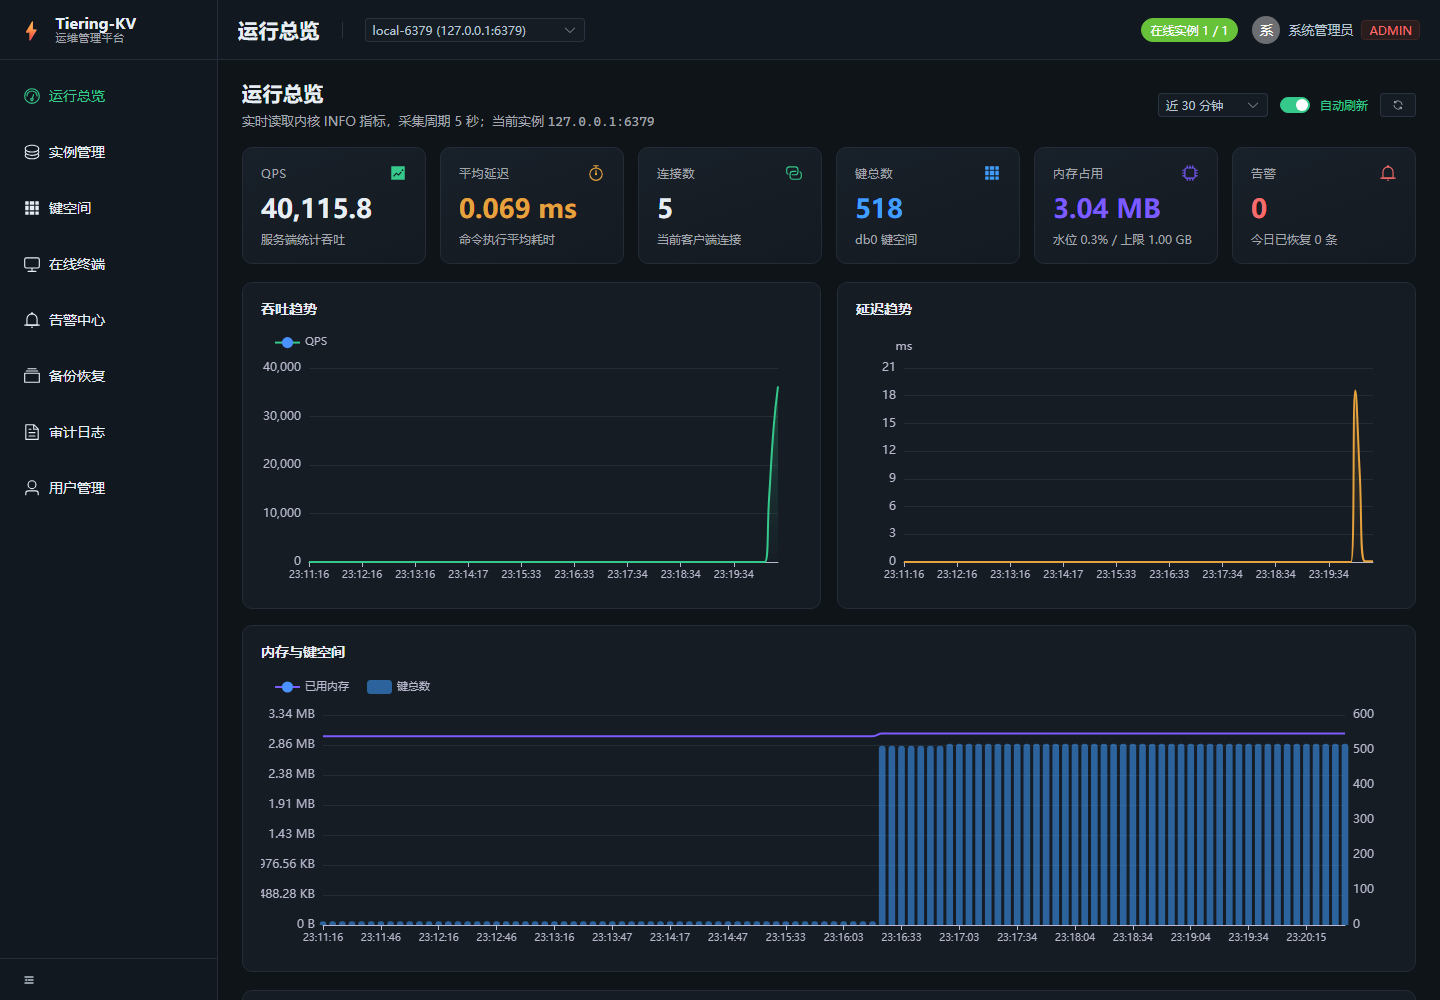
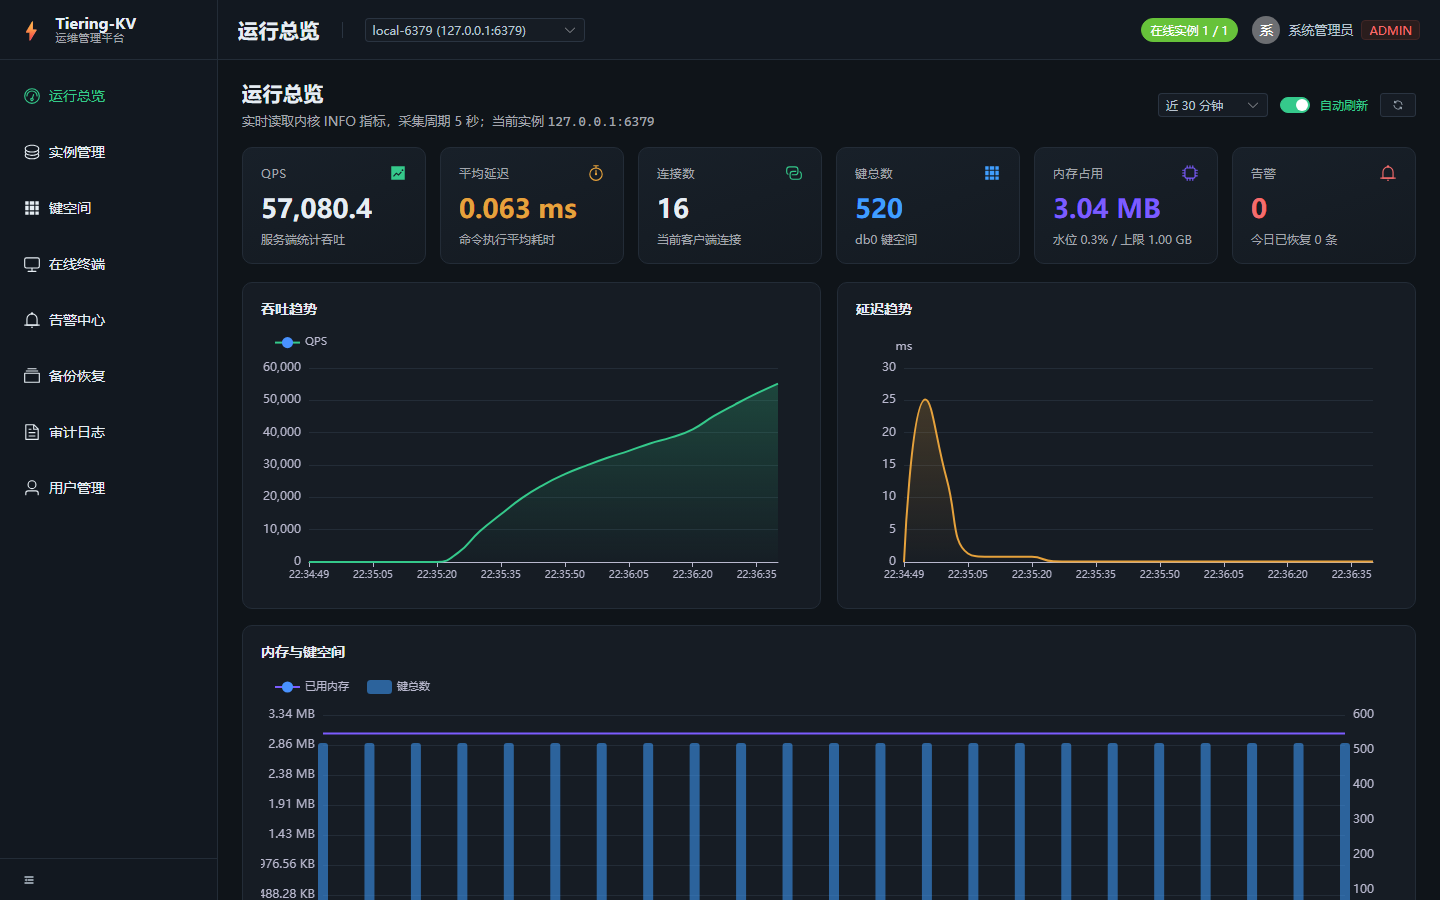
test(console): 测试报告与本地栈验证结果
- docs/testing/console-test-report.md：45 控制面用例 + 25 接口断言 +
  6 页界面冒烟 + 内核全量回归 + 接口延迟基线 + 10 条缺陷记录
- dev-up：控制面优先离线构建，失败回退镜像源
- vite：显式绑定 127.0.0.1，修复 Windows 下 localhost 仅解析 ::1
- 刷新本地截图（含负载曲线）

diff --git a/console-web/vite.config.ts b/console-web/vite.config.ts
@@ -11,6 +11,8 @@ export default defineConfig({
     }
   },
   server: {
+    // 显式绑定 IPv4，避免 Windows 上 localhost 只解析到 ::1 导致 127.0.0.1 拒绝连接
+    host: '127.0.0.1',
     port: 5173,
     // 避免 watcher 监视截图/脚本目录导致 Windows 下 EBUSY 崩溃
     watch: {

diff --git a/docs/testing/console-test-report.md b/docs/testing/console-test-report.md
@@ -1,0 +1,112 @@
+# Web 运维管理平台测试报告
+
+- 版本：console v1.0（分支 `feature/console-platform`）
+- 日期：2026-10-24
+- 环境：Windows 11 · JDK 21.0.12（Microsoft） · Maven 3.9.16 · Node 24.16 · MySQL 8.0.39 · Docker 29.8
+
+## 1. 测试策略
+
+| 层级 | 覆盖对象 | 工具 | 数量 |
+| --- | --- | --- | --- |
+| 单元测试 | RESP 编解码、INFO 解析、终端分词、指标映射、限流器 | JUnit 5 + AssertJ | 26 |
+| 接口测试 | 认证、鉴权、用户管理、告警求值 | Spring Boot Test + MockMvc（H2） | 19 |
+| 接口端到端 | 25 项业务断言，跑在真实内核 + MySQL 之上 | Node 脚本 | 25 |
+| 界面冒烟 | 登录 → 总览 → 键空间 → 终端 → 告警 → 实例 | Playwright (Chromium) | 6 页 |
+| 内核回归 | 全量单元/集成测试 | JUnit 5 + Surefire | 14,958 次执行 |
+| 性能 | 接口延迟基线、内核吞吐 | 自研脚本 | 3 组 |
+
+## 2. 执行结果
+
+### 2.1 控制面测试（`cd console-server && mvn test`）
+
+```
+Tests run: 45, Failures: 0, Errors: 0, Skipped: 0
+BUILD SUCCESS
+```
+
+| 用例类 | 数量 | 关注点 |
+| --- | --- | --- |
+| `RespCodecTest` | 10 | 命令编码、5 类应答、嵌套数组、nil、截断/非法前缀 |
+| `InfoParserTest` | 5 | section 解析、类型化取值、Keyspace 求和、空输入 |
+| `MetricMapperTest` | 3 | INFO → 指标模型、告警字典、内存水位 |
+| `TerminalTokenizerTest` | 5 | 引号/转义/空白折叠 |
+| `LoginAttemptGuardTest` | 4 | 5 次失败锁定、成功清零、大小写与空格、未知用户 |
+| `AuthApiTest` | 6 | 登录成功/失败、空参数、匿名 401、/me、VIEWER 越权 |
+| `UserAdminTest` | 4 | 创建、重名 409、口令长度、不能删除自己、口令不外泄 |
+| `LoginRateLimitTest` | 1 | 连续失败后 429 |
+| `AlertServiceTest` | 4 | 触发/恢复闭环、不重复触发、实例绑定、停用规则 |
+
+### 2.2 内核回归（`mvn -o -B '-Dsurefire.excludedGroups=benchmark' test`）
+
+```
+[WARNING] Tests run: 14958, Failures: 0, Errors: 0, Skipped: 13
+[INFO] BUILD SUCCESS
+Total time: 07:35 min
+```
+
+覆盖本轮对内核的两处改动：`INFO` 标准 section（ADR-0355）与
+`MetricsRegistry` 接线修复（TD-082），新增 8 个用例在其中。
+
+### 2.3 接口端到端（`node scripts/api-smoke.mjs`）
+
+25/25 通过，覆盖：登录/错误口令/匿名拦截、实例重复纳管 409、探测、
+终端读写、危险命令拦截、键详情与 TTL、告警触发与人工恢复、
+备份→删除→恢复闭环、审计留痕、只读角色越权。
+同一脚本对**容器化部署**（`--base http://127.0.0.1:8081`）重跑一遍，同样 25/25。
+
+### 2.4 界面冒烟（`node scripts/smoke.mjs`）
+
+6 个页面渲染通过，无 console error / pageerror，产出
+`console-web/screenshots/`（本地）与 `screenshots/docker/`（容器化）。
+
+### 2.5 性能观测
+
+接口延迟（200–300 次请求，并发 8）：
+
+| 接口 | 平均 | P50 | P95 | P99 | 吞吐 |
+| --- | --- | --- | --- | --- | --- |
+| `/dashboard/overview`（含一次实时 INFO） | 19.87 ms | 14.65 ms | 25.49 ms | 136.18 ms | 400 req/s |
+| `/dashboard/trends`（纯 DB 查询） | 8.53 ms | 7.72 ms | 10.13 ms | 35.99 ms | 924 req/s |
+| `/instances`（纯 DB 查询） | 6.55 ms | 6.25 ms | 8.85 ms | 15.68 ms | 1202 req/s |
+
+目标为 P95 < 200 ms，实测最好项 8.85 ms、最差项 25.49 ms，均达标。
+
+内核吞吐（`node scripts/demo-load.mjs --seconds 70 --conns 6`）：
+**67,399 ops/s**（4,718,099 次请求，6 条连接），同期 `INFO` 读数
+`qps=34,288.5 / avg_latency_ms=0.072`。
+
+## 3. 缺陷记录
+
+| # | 现象 | 根因 | 处置 | 验证 |
+| --- | --- | --- | --- | --- |
+| D1 | 控制面启动失败：`wrong column type [enabled]; found tinyint, expecting bit` | Hibernate 6 把 boolean 映射为 BIT，与 DDL 的 TINYINT 不符 | 库表由 Flyway 独占（`ddl-auto: none`） | 启动成功，V1/V2 正常迁移 |
+| D2 | 告警测试报 `Syntax error ... [*]value` | `value` 是 H2 保留字 | 列名改为 `metric_value` | H2 + MySQL 双库通过 |
+| D3 | `Surefire` 报 "Error occurred in starting fork" | pom 里写死 `@{argLine}`，本模块未接 JaCoCo，字面量传给 JVM | 去掉 `@{argLine}` | 45 用例正常执行 |
+| D4 | 仪表盘 QPS/连接数恒为 0 | `Main` 新建了第二个 `MetricsRegistry`，INFO 读的与实际埋点不是同一实例 | 复用同一实例（TD-082） | 新增 `ServerMetricsIntegrationTest` |
+| D5 | 预览构建登录 403 | CORS 白名单只含 5173 | 白名单补 4173；容器内由 Nginx 剥离 Origin | 两种部署均登录成功 |
+| D6 | Vite dev server 崩溃（EBUSY） | 工具以 `.xxx.tmpdir` 原子写文件，chokidar 监听到瞬态目录 | `server.watch.ignored` 忽略临时目录/脚本/截图 | 连续编辑不再崩 |
+| D7 | 镜像构建失败：`/build/target/*.jar: No such file` | 选包命令写在了运行阶段，构建产物不在该阶段 | 移入构建阶段并固定路径 | 镜像构建成功 |
+| D8 | 镜像内 `mvn package` 失败 403 | 本机网络访问 Maven Central 被 CDN 限流 | 构建期用阿里云镜像 + BuildKit 依赖缓存 | 3 个镜像全部构建成功 |
+| D9 | 容器内实例状态 DOWN | 种子实例是 `127.0.0.1:6379`，在控制面容器里指向自身 | `CONSOLE_BOOTSTRAP_INSTANCE` 启动引导改写地址 | `status=UP / version=4.1.0` |
+| D10 | 告警/实例表格列错位、时间被截断 | `fixed="right"` 在隐藏 tab 中测量宽度 | 去掉 fixed、加宽时间列 | 截图复核通过 |
+
+## 4. 未覆盖与已知限制
+
+| 项 | 说明 | 影响 |
+| --- | --- | --- |
+| Windows 下的真实网络混沌 | `RealNetworkChaosTest` 仅在 Linux + 环境变量开启时执行（本轮 13 skipped 之一） | 故障演练需在 Linux/CI 跑 |
+| 多副本控制面 | 登录限流、采集调度为单实例内存实现 | 横向扩展需引入共享存储/分布式锁 |
+| 备份规模 | 逻辑备份为 O(keys) 次往返，上限 20 万键 | 千万级键空间应改用物理备份 |
+| 前端单元测试 | 只有 Playwright 冒烟，没有组件级单测 | 回归依赖界面冒烟 |
+
+## 5. 复现方式
+
+```powershell
+. .\scripts\env.ps1
+cd console-server; mvn -o test          # 45 用例
+cd ..\tiering-kv; mvn -o -B '-Dsurefire.excludedGroups=benchmark' test   # 内核全量
+node scripts\api-smoke.mjs              # 接口 25 项
+node scripts\api-bench.mjs --n 200      # 接口延迟
+cd console-web; node scripts\smoke.mjs  # 界面 6 页 + 截图
+.\scripts\quality-gates.ps1             # 一键门禁
+```
